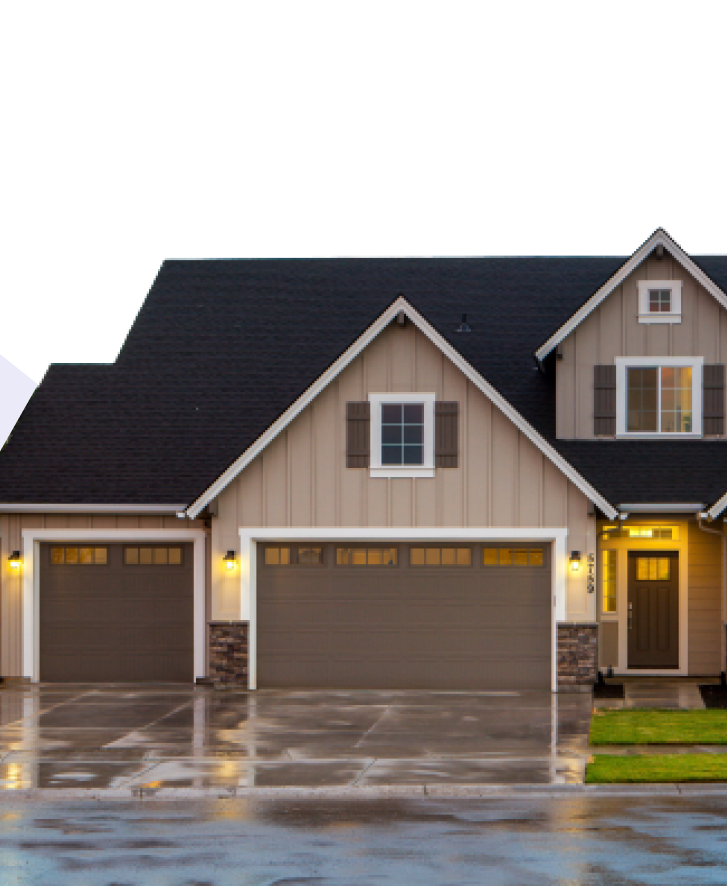
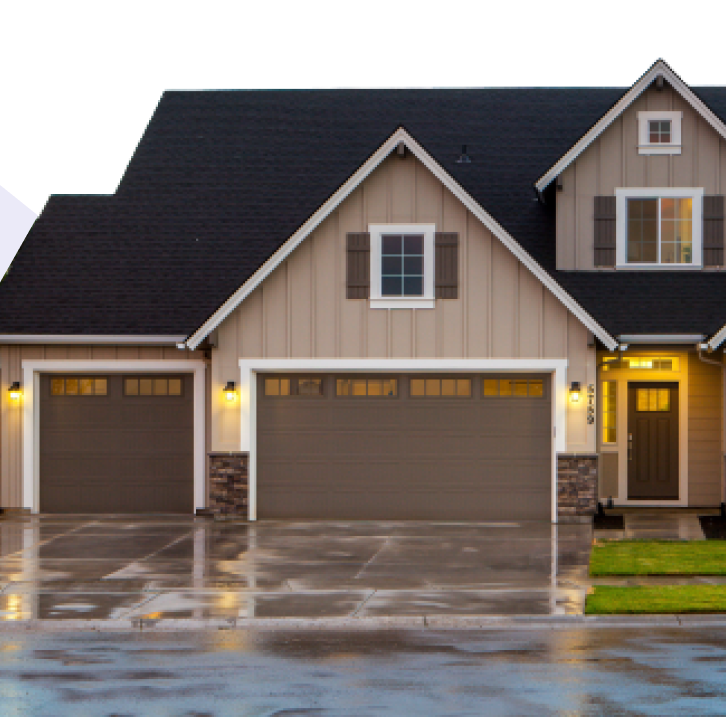
section change

diff --git a/src/components/Home/Section/Section1.jsx b/src/components/Home/Section/Section1.jsx
@@ -14,7 +14,7 @@ const Section1 = () => {
     return (
         <div className=' home'>
             <div className='max-w-[1440px] mx-auto px-4'>
-            <div className='flex items-end gap-20 flex-col lg:flex-row pt-12 lg:pt-20 px-3 '>
+            <div className='flex items-start gap-20 flex-col lg:flex-row pt-12 lg:pt-20 px-3 '>
                 <div className='w-full lg:w-2/4 text-center lg:text-start'>
                     <h1 className='text-4xl lg:text-6xl font-bold'>Buy, rent, or sell your property easily</h1>
                     <p className='font-medium mb-12 mt-8'>A great platform to buy, sell, or even rent your properties without any commisions.</p>

diff --git a/src/components/Home/Section/Section3.jsx b/src/components/Home/Section/Section3.jsx
@@ -42,7 +42,7 @@ const Section3 = () => {
     ]
     return (
         <div >
-            <h1 className='text-center text-black text-4xl font-bold mt-44'>Based on your location</h1>
+            <h1 className='text-center text-black text-4xl font-bold mt-24'>Based on your location</h1>
             <p className='text-center mb-16 mt-4'>Some of our picked properties near you location.</p>
             <div className='grid grid-cols-1 lg:grid-cols-3 gap-6 '>
                 <div className='order-2 lg:order-1 w-full bg-[#F7F7FD] flex items-center justify-between border p-2 border-[#E0DEF7] rounded-lg'>

diff --git a/src/components/Home/Home.jsx b/src/components/Home/Home.jsx
@@ -9,8 +9,8 @@ const Home = () => {
         <>
             <Section1></Section1>
             <div className="max-w-[1440px] mx-auto px-4">
-                <Section2></Section2>
                 <Section3></Section3>
+                <Section2></Section2>
             </div>
             <Section4></Section4>
             <Section5></Section5>
